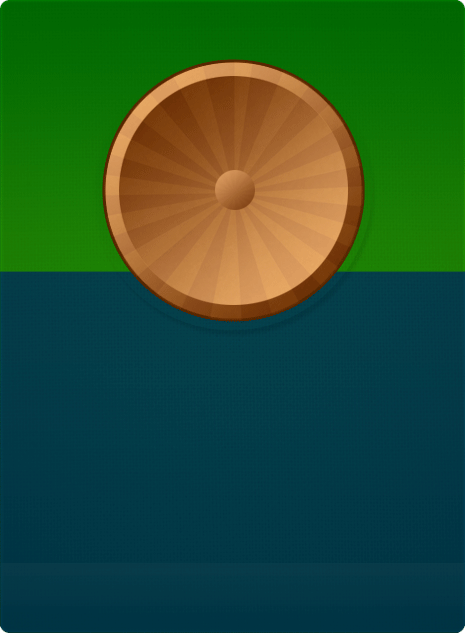
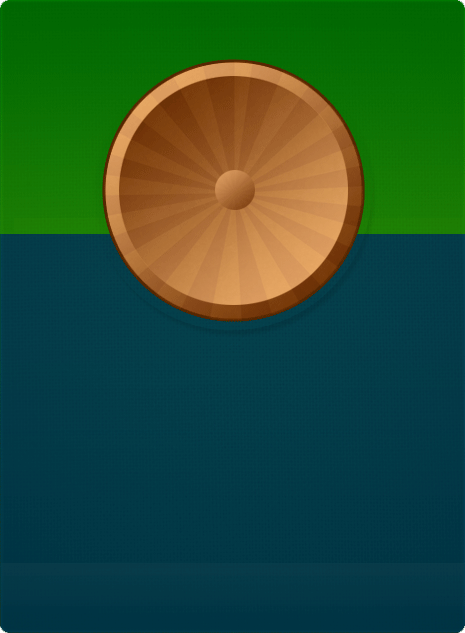
Roulette base style corrections.

Changed region(s): [[0.7226, 0.3602, 1.0, 0.4502], [0.0, 0.3602, 0.271, 0.4502], [0.9935, 0.9905, 1.0, 1.0]]

diff --git a/index.html b/index.html
@@ -21,22 +21,24 @@
             <p class="chromeframe">You are using an <strong>outdated</strong> browser. Please <a href="http://browsehappy.com/">upgrade your browser</a> or <a href="http://www.google.com/chromeframe/?redirect=true">activate Google Chrome Frame</a> to improve your experience.</p>
         <![endif]-->
         <!-- Add your site or application content here -->
-        <div class="roulette_base">
-            <div class="pointer"></div>
-            <div class="players"></div>
-            <div class="content">
-                <h1>Nakkiruletti</h1>
-                <h2>Kenelle nakki napsahtaa?</h2>
-                <div id="btn_set_players" class="button" style="margin-right: 30px;">Osallistujat</div>
-                <div id="btn_play" class="button">Pyöritä</div>
-            </div>
+        <div class="roulette_wrapper">
+            <div class="roulette_base">
+                <div class="pointer"></div>
+                <div class="players"></div>
+                <div class="content">
+                    <h1>Nakkiruletti</h1>
+                    <h2>Kenelle nakki napsahtaa?</h2>
+                    <div id="btn_set_players" class="button" style="margin-right: 30px;">Osallistujat</div>
+                    <div id="btn_play" class="button">Pyöritä</div>
+                </div>
 
-            <div class="share">
-                <p>Kerro nakkiruletista työkavereillesi:</p>
-                <a class="twitter" href="http://twitter.com/share?text=Nakkiruletti&url=http://www.google.com"></a>
-                <a class="facebook" href="http://www.facebook.com/sharer.php?u=http://www.google.com"></a>
-            </div>
+                <div class="share">
+                    <p>Kerro nakkiruletista työkavereillesi:</p>
+                    <a class="twitter" href="http://twitter.com/share?text=Nakkiruletti&url=http://www.google.com"></a>
+                    <a class="facebook" href="http://www.facebook.com/sharer.php?u=http://www.google.com"></a>
+                </div>
 
+            </div>
         </div>
         <div class="players_settings">
             <div class="dim"></div>

diff --git a/css/main.css b/css/main.css
@@ -29,7 +29,7 @@ body {
     background-position: center;
     background-image: url(../img/tausta.jpg);
     color: #ffffff;
-    min-height: 633px;
+    min-height: 653px;
     height: 100%;
     width: 100%;
 }
@@ -104,17 +104,25 @@ textarea {
    Author's custom styles
    ========================================================================== */
 
+.roulette_wrapper {
+    position: absolute;
+    padding: 0;
+    width: 465px;
+    height: 653px;
+    top: 0;
+    left: 0;
+    right: 0;
+    bottom: 0;
+    margin: auto;
+}
+
 .roulette_base {
     position: absolute;
     padding: 0;
     width: 465px;
     height: 633px;
-    top:0;
-    left:0;
-    bottom:0;
-    right: 0;
-    margin: auto;
-    background-image: url(../img/rulettipohja.png);
+    margin: 10px 0;
+    background: url(../img/rulettipohja.png) no-repeat top left;
     color: #63b4b8;
     text-transform: uppercase;
     font-size: 12px;
@@ -264,12 +272,12 @@ h2 {
 
 
 .players_settings {
-    display:block;
+    display: block;
     position: absolute;
     width: 100%;
     height: 100%;
-    min-height: 633px;
-    margin:0;
+    min-height: 653px;
+    margin: 0;
 }
 .players_settings .dim {
     position: absolute;
@@ -282,7 +290,7 @@ h2 {
 .window_set_players {
     position: absolute;
     z-index: 2;
-    margin: -290px auto;
+    margin: -266px auto 0 auto;
     top: 50%;
     left: 0;
     right: 0;
